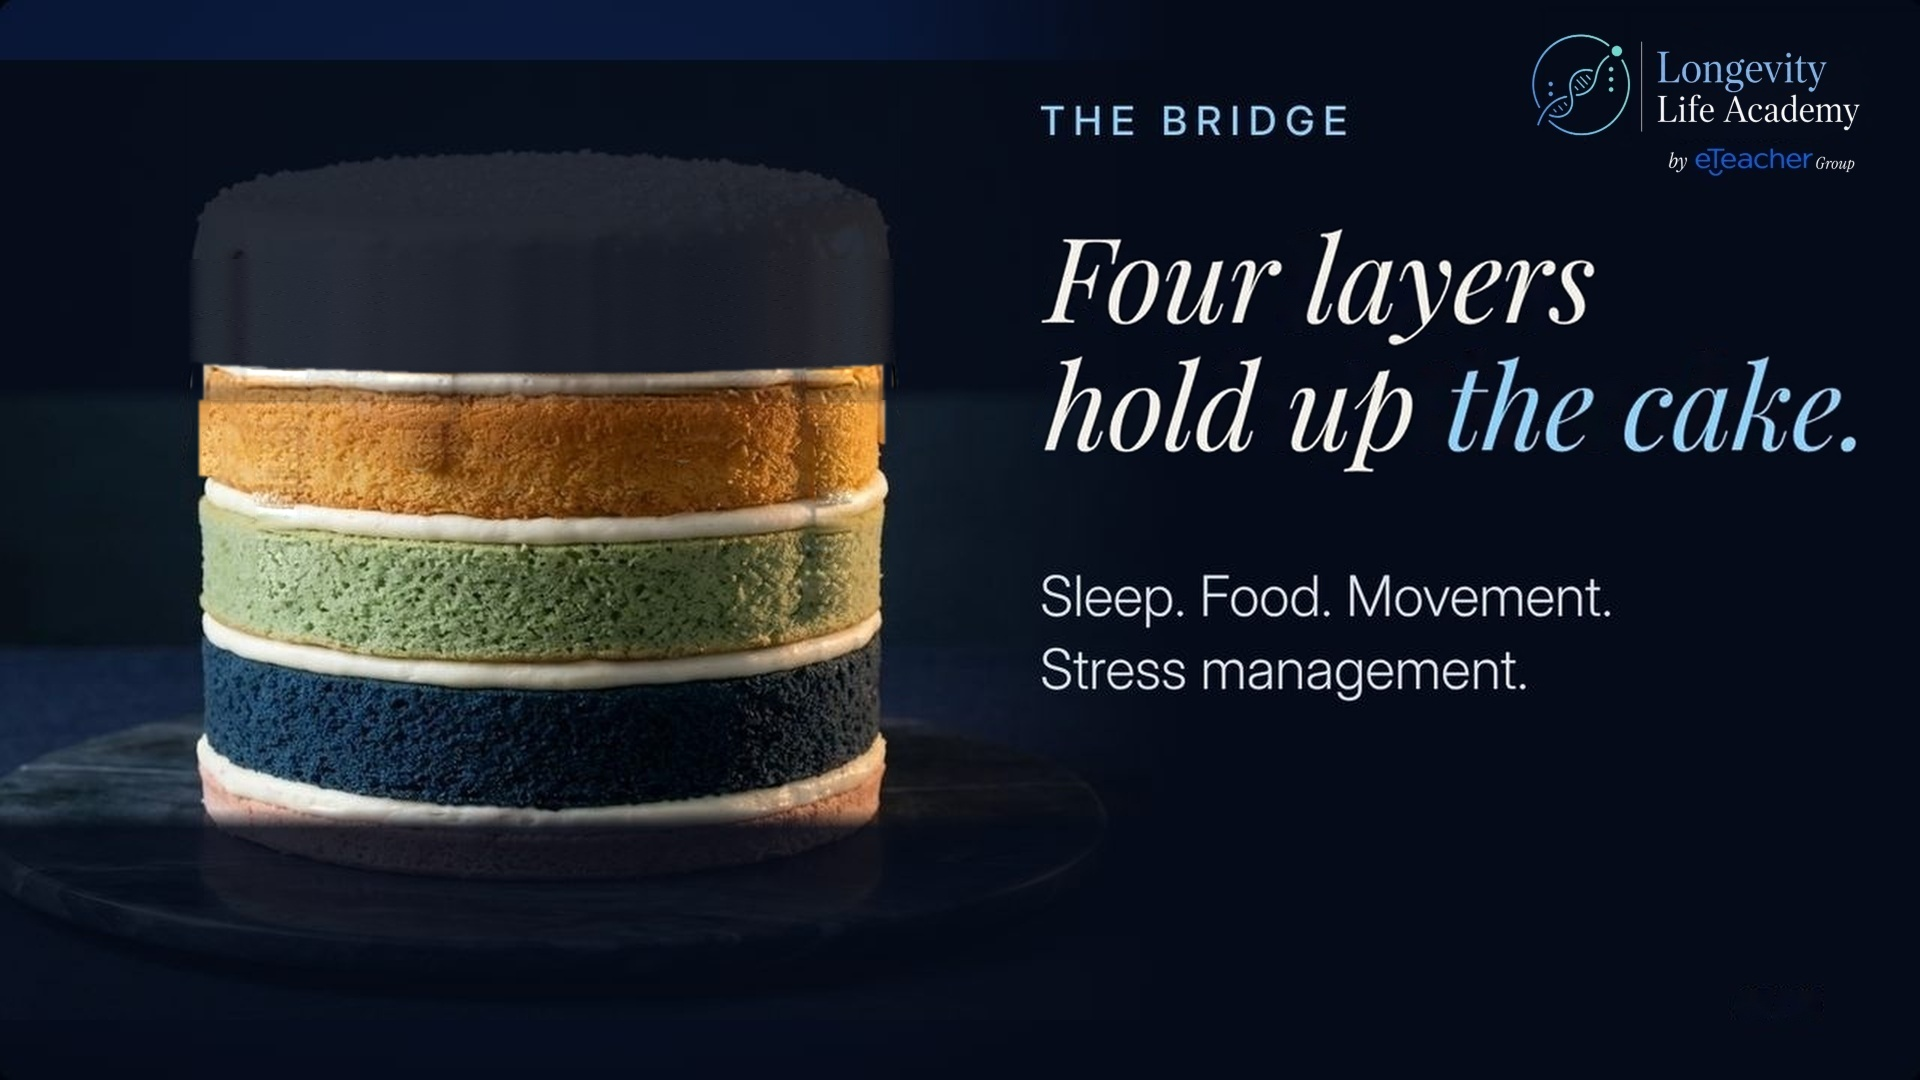
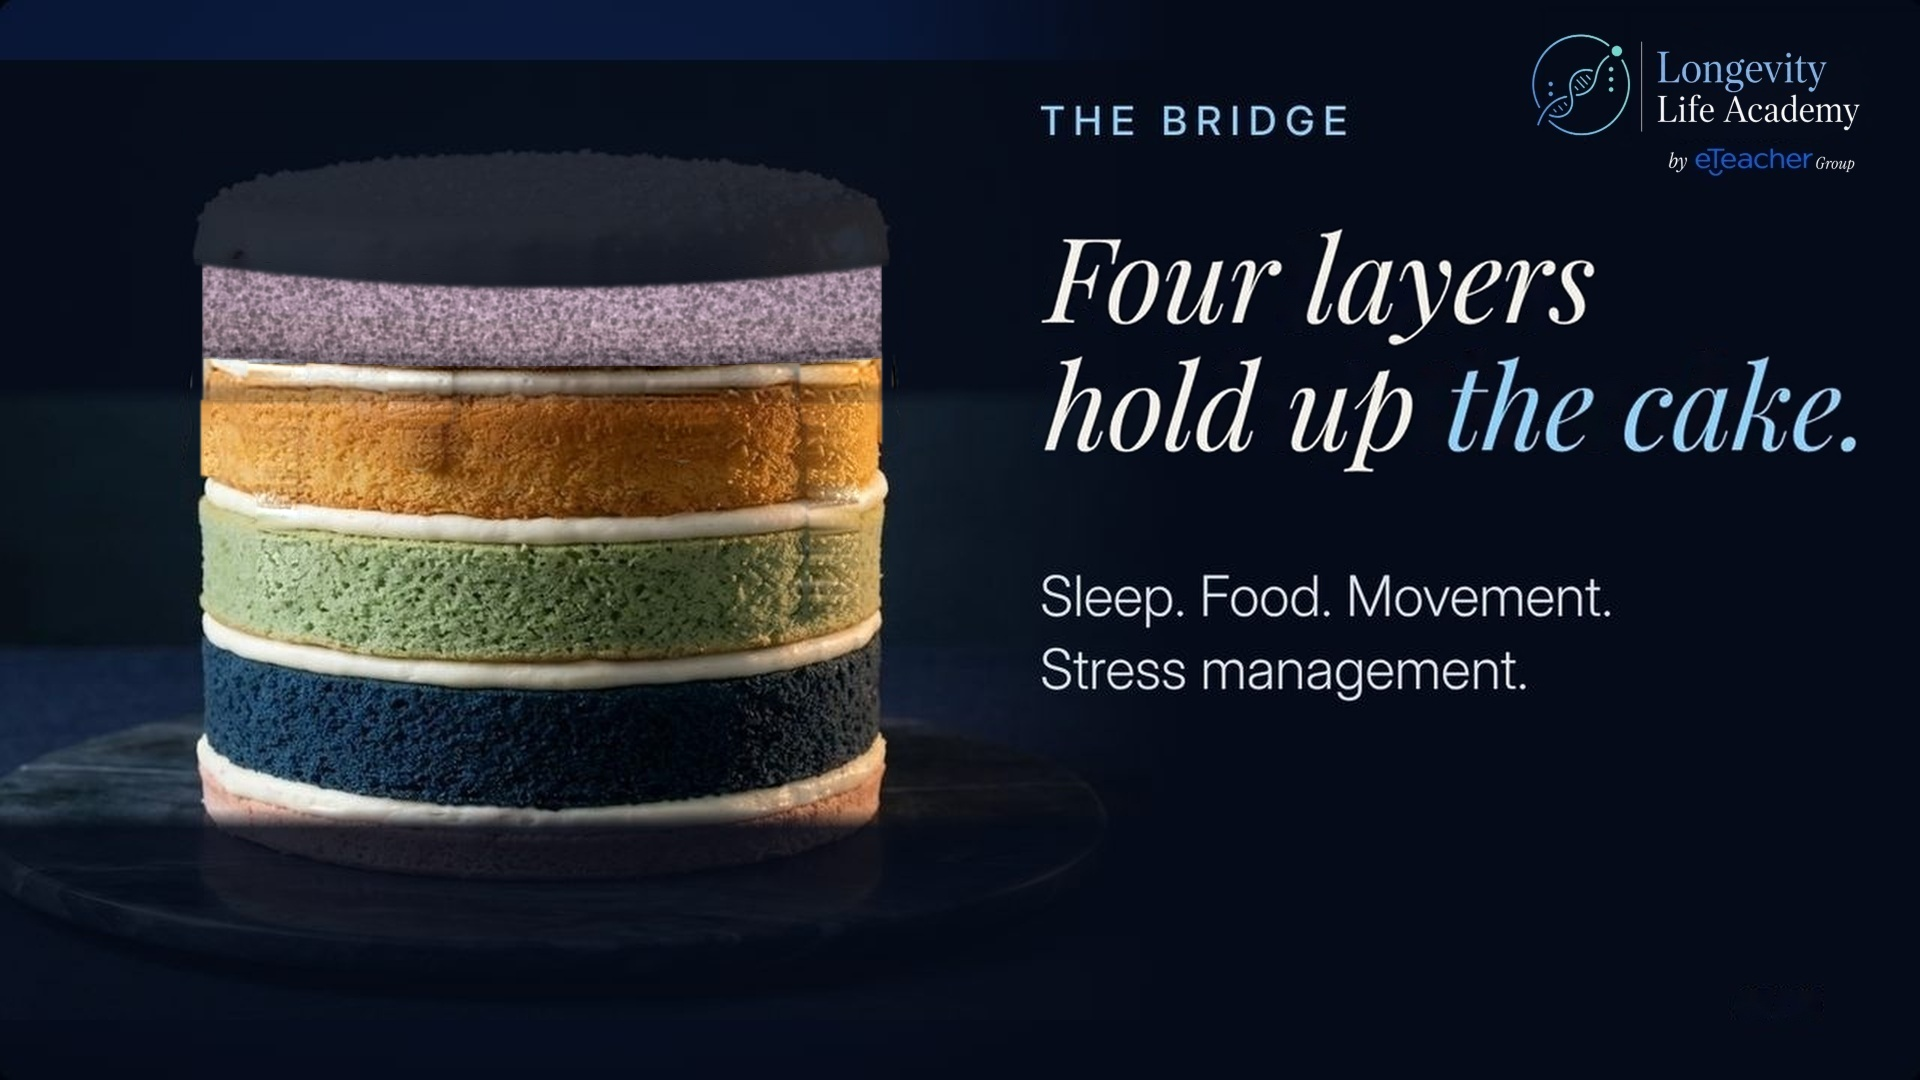
v46 slide 9: clean rounded icing cap, drips removed, edges aligned

Changed region(s): [[0.0938, 0.2444, 0.4688, 0.5806], [0.125, 0.4889, 0.1562, 0.55]]

diff --git a/slide-canvas/v46/index.html b/slide-canvas/v46/index.html
@@ -65,7 +65,7 @@ textarea:focus{outline:none;border-color:#006EFF;box-shadow:0 0 0 3px rgba(0,110
 <button id="send" class="btn p" onclick="sendAll()">Send my comments</button>
 <div id="lb" onclick="this.classList.remove('on')"><img id="lbimg" src="" alt=""><div class="x">Close</div></div>
 <div id="play"><img id="pimg" src="" alt=""><div class="x" onclick="stopPlay()">Close, Esc</div><div class="c" id="pc"></div></div>
-<script src="corrections.js?v=20261027-v46x"></script>
+<script src="corrections.js?v=20261027-v46y"></script>
 <script>
 const P=allSlots.map(s=>s.querySelector('img.main').getAttribute('src'));let k=0;
 const T=[...document.querySelectorAll('textarea')];

diff --git a/slide-canvas/v46/build-v46-round11-s9.py b/slide-canvas/v46/build-v46-round11-s9.py
@@ -1,0 +1,149 @@
+# slide 9 (n07-bridge) ROUND 11: base a4bc235 (white icing). Drips removed, natural rounded cap (elliptical top + short band with a soft feathered lower edge),
+# pink top layer visible in true colour beneath it, layer edges straight through every layer, no rectangular block.
+import cv2,numpy as np,subprocess,sys
+G='/workspace/lla-masterclass-syllabus'
+def git(c,f):
+    b=subprocess.check_output(['git','-C',G,'show',f'{c}:slide-canvas/v46/assets/{f}']);return cv2.imdecode(np.frombuffer(b,np.uint8),1)
+A=git('a4bc235','n07-bridge.jpg');C=git('c12bece','n07-bridge.jpg');CUR=git('HEAD','n07-bridge.jpg')
+M=cv2.imread('/workspace/r5/icing_mask.png',0)>0
+H,W=A.shape[:2];xs=np.arange(W);yy=np.arange(H)[:,None]
+u=np.clip((xs-545.0)/365.0,-1,1)
+st=356+10*(1-u*u)
+# --- layer edges per row (from the undimmed layers, black drips excluded), straightened
+def edge(img,y,side):
+    row=img[y].astype(int);lum=row.max(1)
+    rng=range(150,300) if side==0 else range(870,960)
+    pts=[x for x in rng if lum[x]>85 and lum[min(x+3,W-1)]>85 and lum[x-3 if side==1 else x]>0]
+    return (min(pts) if side==0 else max(pts)) if pts else None
+eL=[];eR=[]
+for y in range(404,690):
+    l=edge(A,y,0);r=edge(A,y,1)
+    if l is not None and 198<=l<=212:eL.append(l)
+    if r is not None and 878<=r<=892:eR.append(r)
+XL=int(np.median(eL));XR=int(np.median(eR));print('layer edges',XL,XR,len(eL),len(eR))
+# --- icing mask + the right-hand drips the registration missed
+hsv=cv2.cvtColor(A,cv2.COLOR_BGR2HSV);Hh,Ss,Vv=[hsv[...,i].astype(int) for i in range(3)]
+cand=((Ss<125)&(Vv>160)&(Hh<=24)&(Hh>=8)).astype(np.uint8);cand[:,:780]=0;cand[:,1000:]=0
+fa=cand[400:490].mean(0);fb=cand[556:612].mean(0);extra=np.zeros_like(M)
+for c in np.where(fa>0.6)[0]:extra[392:(612 if fb[c]>0.6 else 500),c]=True
+Z=(M|extra);Z[:,:150]=False;Z[:,1000:]=False
+atop=np.full(W,999)
+for x in range(150,1000):
+    r=np.where(~Z[200:,x])[0]
+    if len(r):atop[x]=200+r[0]
+dripcol=atop>340
+good=np.where(~dripcol)[0];good=good[(good>XL)&(good<XR)]
+atop_i=np.interp(np.arange(W),good,atop[good]).astype(np.float32)
+yb=262+26*(1-u*u)
+yb=cv2.GaussianBlur(yb.astype(np.float32)[None,:],(0,0),6)[0]
+print('cap edge y: sides %.0f centre %.0f'%(yb[XL+5],yb[545]))
+base=np.where((yy<400)[...,None],C,A)
+# --- cap: real cap (A) down to row 258, then its own side wall extended downwards inside the cap's real silhouette
+xl250=np.where(M[250])[0].min();xr250=np.where(M[250])[0].max();print('cap silhouette at y=250',xl250,xr250)
+Af=A.astype(np.float32);wall=Af[246:259].mean(0);wall_l=cv2.GaussianBlur(wall[None],(0,0),sigmaX=6)[0]
+hpA=Af-cv2.GaussianBlur(Af,(0,0),2.5);rng=np.random.RandomState(5)
+capimg=A.copy()
+for y in range(259,int(yb.max())+10):
+    sy=244+int(rng.randint(0,14));seg=hpA[sy,xl250:xr250+1];cap_=np.zeros_like(wall_l);cap_[xl250:xr250+1]=np.roll(seg,int(rng.randint(-200,200)),axis=0)
+    capimg[y]=np.clip(wall_l+cap_,0,255).astype(np.uint8)
+# cap shape: A's own cap (natural dome) down to row 262, rolled in smoothly to the layer edges over its last rows; lower edge = soft ellipse
+shape=np.zeros((H,W),np.float32)
+left=np.zeros(H);right=np.zeros(H)
+for y in range(H):
+    mx=np.where(M[y,150:1000])[0]
+    if y<250 and len(mx):l0=150+mx.min();r0=150+mx.max()
+    else:l0=xl250;r0=xr250
+    t=np.clip((y-236)/40.0,0,1);t=t*t*(3-2*t)
+    left[y]=l0+(XL-4-l0)*t if y>=236 else l0;right[y]=r0+(XR+4-r0)*t if y>=236 else r0
+for y in range(120,int(yb.max())+6):
+    inside=(xs>=left[y])&(xs<=right[y])&(y<yb)
+    shape[y,inside]=1
+# soft shading of the band (darker toward the lower edge) + feathered edge
+band=(np.arange(H)[:,None]>=250)&(np.arange(H)[:,None]<yb[None,:])
+tt=np.clip((np.arange(H)[:,None]-250)/np.maximum(yb[None,:]-250,1),0,1)
+capimg=(capimg.astype(np.float32)*np.where(band,1-0.10*tt**1.5,1)[...,None]).astype(np.uint8)
+shape=cv2.GaussianBlur(shape,(0,0),2.0)[...,None]
+# pink top layer, rebuilt in true colour: row colours + pore grain from a clean pink patch of the real layer
+P=C[296:346,312:402].astype(np.float32);ph=P.shape[0]
+rowcol=P.mean(1)                                    # (57,3) tone per row above the stripe (bottom row touches the stripe)
+hpP=P-cv2.GaussianBlur(P,(0,0),3)
+rng2=np.random.RandomState(11);pink=base.astype(np.float32).copy()
+pm=np.zeros((H,W),np.float32)
+for x in range(XL,XR+1):pm[int(yb[x])-6:int(st[x])+1,x]=1
+sd=float(hpP.std())
+noise=cv2.GaussianBlur(rng2.randn(H,W).astype(np.float32),(0,0),1.1)*sd*2.2
+rowt=np.zeros((H,W,3),np.float32)
+for x in range(XL,XR+1):
+    y1=int(st[x])
+    for y in range(int(yb[x])-6,y1+1):
+        r=min(max(y1-y,0),ph-1);rowt[y,x]=rowcol[r]
+pink=rowt+noise[...,None]
+# pores: dark soft specks scattered like the real sponge
+pores=np.zeros((H,W),np.float32)
+for _ in range(2000):
+    px=int(rng2.randint(XL,XR));py=int(rng2.randint(266,366))
+    cv2.circle(pores,(px,py),int(rng2.choice([1,1,2,2,3])),1.0,-1)
+pores=cv2.GaussianBlur(pores,(0,0),0.9)
+pink=pink*(1-0.30*pores[...,None])
+pa=cv2.GaussianBlur(pm,(0,0),1.0)[...,None]
+shade=(0.92+0.08*(1-u*u))[None,:,None]
+base=(base.astype(np.float32)*(1-pa)+np.clip(pink*shade,0,255)*pa).astype(np.uint8)
+B=(base.astype(np.float32)*(1-shape)+capimg.astype(np.float32)*shape).astype(np.uint8)
+out=B.copy()
+# --- side drips / lip outside the layer edges: replace from the clean backdrop (row-wise shift keeps the backdrop band edge)
+zz=cv2.dilate((M|extra).astype(np.uint8),np.ones((7,7),np.uint8))>0
+for sgn in(-1,1):
+    sel=np.zeros((H,W),bool)
+    for y in range(230,520):
+        if sgn==-1:sel[y,xl250-14:int(left[y]) if y<yb[int(left[y])] else XL]=True
+        else:sel[y,int(right[y])+1 if y<yb[int(right[y])] else XR+1:xr250+14]=True
+    sel&=zz
+    al=cv2.GaussianBlur(sel.astype(np.float32),(0,0),1.1)[...,None]
+    sh=np.roll(B,-sgn*32,axis=1)
+    out=(out.astype(np.float32)*(1-al)+sh.astype(np.float32)*al).astype(np.uint8)
+B=out.copy()
+# --- drips + necks inside the layers: row-wise interpolation of clean neighbours + sponge texture from a clean neighbour
+D=Z&(yy>=st[None,:]-4)&np.broadcast_to(dripcol[None,:],Z.shape)
+D[:,:XL+1]=False;D[:,XR-16:]=False
+D0=D.copy()
+D=(cv2.dilate(D0.astype(np.uint8),np.ones((7,25),np.uint8))>0)|((cv2.dilate(D0.astype(np.uint8),np.ones((7,37),np.uint8))>0)&(yy<425))
+Dw=(cv2.dilate(D0.astype(np.uint8),np.ones((7,39),np.uint8))>0)|((cv2.dilate(D0.astype(np.uint8),np.ones((7,49),np.uint8))>0)&(yy<425))
+D[:,700:]=Dw[:,700:]
+D&=(yy>=st[None,:]-4);D[:,:XL+1]=False;D[:,XR-16:]=False
+n,lab,stt,_=cv2.connectedComponentsWithStats(D.astype(np.uint8),connectivity=8)
+hpimg=B.astype(np.float32)-cv2.GaussianBlur(B.astype(np.float32),(0,0),4)
+hpimg[cv2.dilate(D.astype(np.uint8),np.ones((9,9),np.uint8))>0]=0
+for i in range(1,n):
+    x,y,w,h,ar=stt[i]
+    if ar<60:continue
+    comp=cv2.dilate((lab==i).astype(np.uint8),np.ones((1,9),np.uint8))>0
+    ring=cv2.dilate(comp.astype(np.uint8),np.ones((9,9),np.uint8)).astype(bool)&~comp&~D
+    ry,rx=np.where(ring);best=None
+    for s_ in range(w+8,w+140,4):
+        for sg in(-1,1):
+            d=sg*s_
+            if (rx+d).min()<XL+4 or (rx+d).max()>=XR-4:continue
+            err=np.abs(B[ry,rx+d].astype(int)-B[ry,rx].astype(int)).mean()+0.02*s_
+            if best is None or err<best[0]:best=(err,d)
+    if best is None:print('no source',x,y,w,h);continue
+    d=best[1];print('comp',x,y,w,h,'shift',d,'err %.1f'%best[0])
+    low=np.zeros((H,W,3),np.float32);shc=np.roll(B,-d,axis=1).astype(np.float32)
+    for yv in range(y,y+h):
+        xs_=np.where(comp[yv])[0]
+        if len(xs_)==0:continue
+        xa,xb=xs_.min(),xs_.max();Lv=Rv=None
+        for o in ((26,12,6) if yv<425 else (12,6)):
+            if Lv is None and xa-o>=XL+1 and not D[yv,xa-o:xa-o+8].any():Lv=np.median(B[yv,xa-o:xa-o+8].astype(np.float32),0)
+            if Rv is None and xb+o+1<=XR-4 and not D[yv,xb+o-7:xb+o+1].any():Rv=np.median(B[yv,xb+o-7:xb+o+1].astype(np.float32),0)
+        if Lv is None and Rv is None:
+            low[yv,xa:xb+1]=cv2.GaussianBlur(shc[yv:yv+1],(0,0),sigmaX=4)[0][xa:xb+1];continue
+        if Lv is None:Lv=Rv
+        if Rv is None:Rv=Lv
+        t=np.linspace(0,1,xb-xa+1)[:,None];low[yv,xa:xb+1]=Lv[None]*(1-t)+Rv[None]*t
+    low=cv2.GaussianBlur(low,(0,0),sigmaX=0.1,sigmaY=0.7)
+    cand_=np.clip(low+np.roll(hpimg,-d,axis=1),0,255)
+    al=cv2.GaussianBlur(cv2.erode(comp.astype(np.uint8),np.ones((5,5),np.uint8)).astype(np.float32),(0,0),1.2)[...,None]
+    out=(out.astype(np.float32)*(1-al)+cand_*al).astype(np.uint8)
+res=CUR.copy();res[:, :1000]=out[:, :1000]
+cv2.imwrite('assets/n07-bridge.jpg',res,[cv2.IMWRITE_JPEG_QUALITY,95])
+cv2.imwrite('/workspace/s9_r11_h.png',res[90:800,100:1920])
